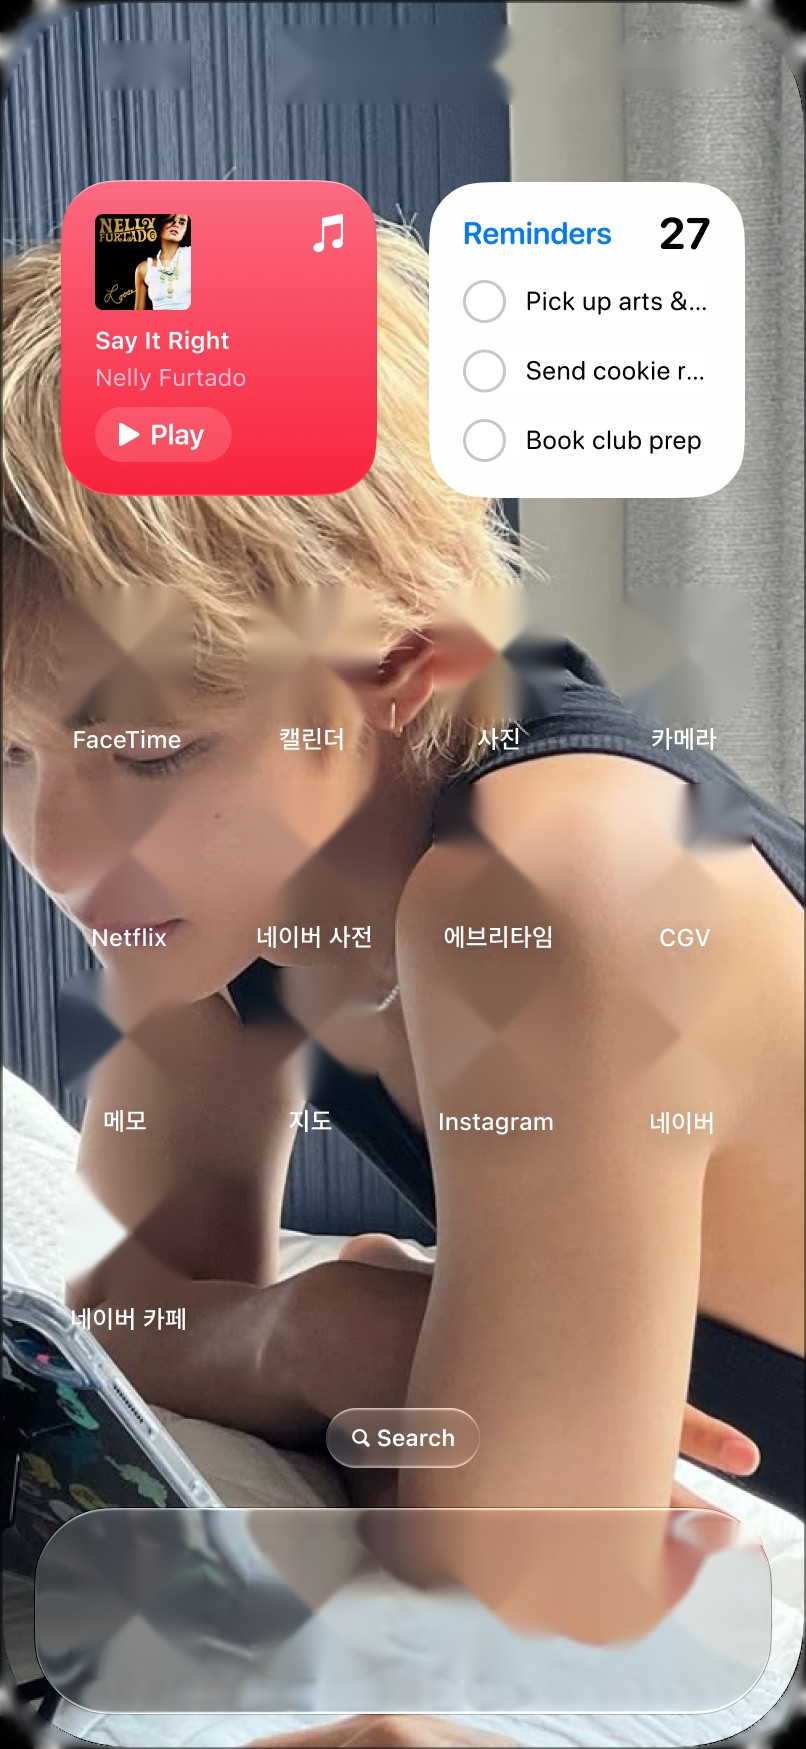
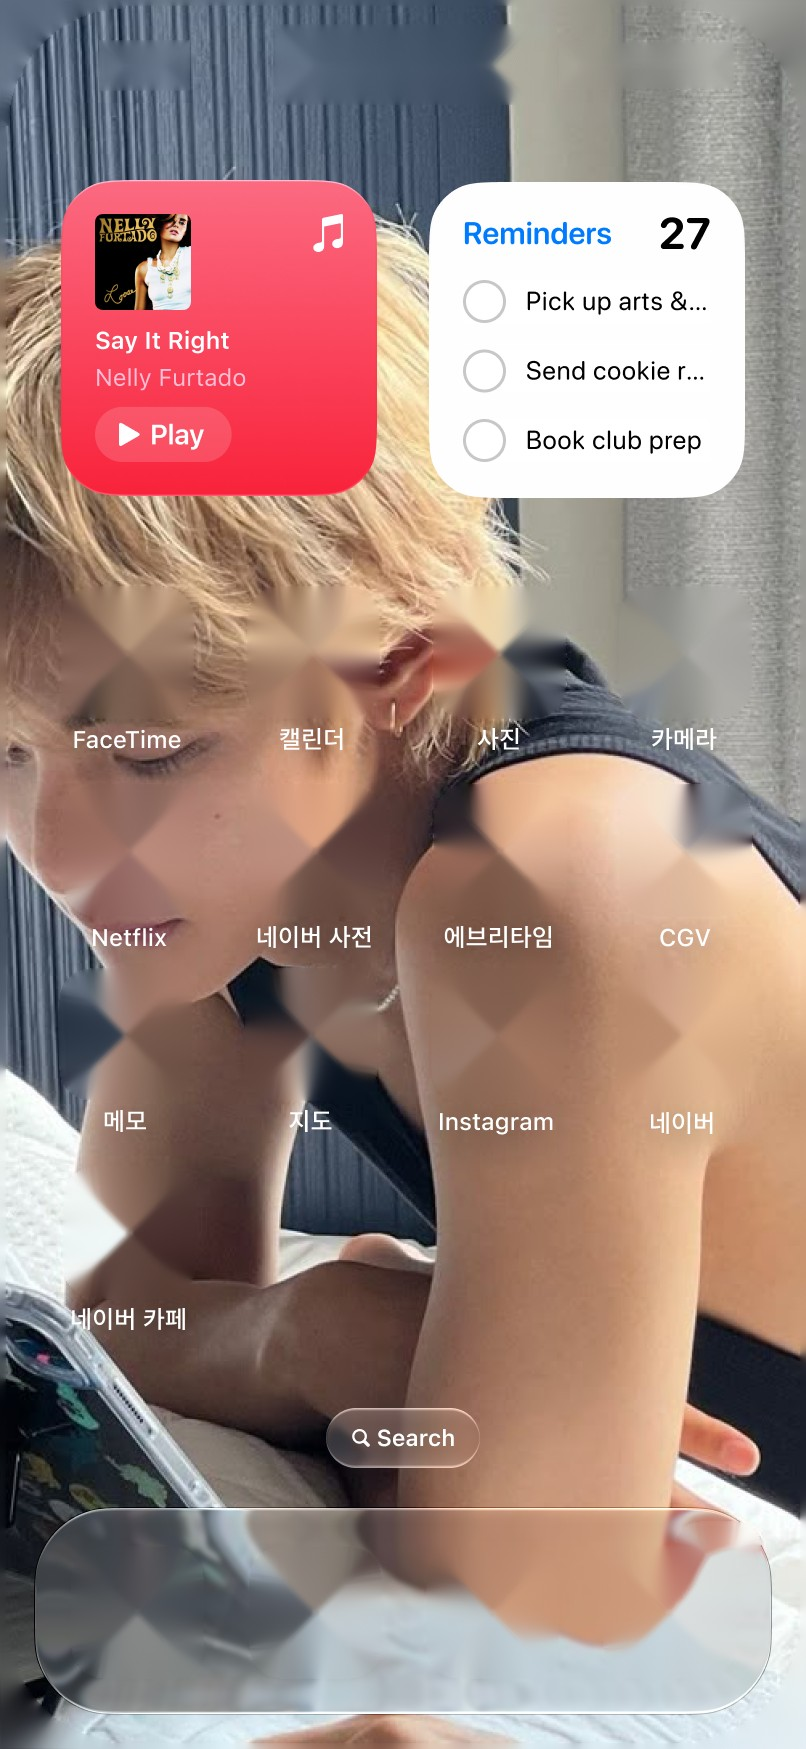
Add files via upload

diff --git a/public/index.html b/public/index.html
@@ -82,6 +82,7 @@ body{background:var(--stage);color:var(--ink);font-family:var(--ios);display:fle
 .sempty{color:rgba(255,255,255,.75);font:400 calc(var(--u)*27)/1.4 var(--ios)}
 /* full-screen mode on phones */
 body.full{background:#000;padding:0;display:block}
+body.full::before{content:"";position:fixed;inset:-40px;background:url(base-full.jpg) center/cover;filter:blur(28px) brightness(.55)}
 body.full .phone{position:fixed;max-width:none;filter:none;aspect-ratio:auto;background:url(base-full.jpg) no-repeat;background-size:89.5556% 95.0543%;background-position:50.0000% 50.5495%}
 body.full .screen{border-radius:0}
 body.full .frame-only,body.full .app .time{display:none}
@@ -113,7 +114,7 @@ new ResizeObserver(resize).observe(phone);
 const fullMQ=matchMedia('(max-width: 600px)');
 function layout(){
   const full=fullMQ.matches;document.body.classList.toggle('full',full);
-  if(full){const vw=innerWidth,vh=innerHeight,u=Math.max(vw/SW,vh/SH);
+  if(full){const vw=innerWidth,vh=innerHeight,u=Math.min(vw/SW,vh/SH);
     Object.assign(phone.style,{width:W*u+'px',height:H*u+'px',left:((vw-SW*u)/2-SX*u)+'px',top:((vh-SH*u)/2-SY*u)+'px'})}
   else Object.assign(phone.style,{width:'',height:'',left:'',top:''});
   resize()}

diff --git a/README.md b/README.md
@@ -1,4 +1,2 @@
 # 아이폰 홈 화면 프로토타입
-- public/index.html: 화면과 움직이는 코드
-- public/home.png, base.png, base-full.jpg, icon.png: 화면 이미지
-Vercel: GitHub에 올린 뒤 Import → Deploy
+GitHub에 올린 뒤 Vercel에서 Import → Deploy
